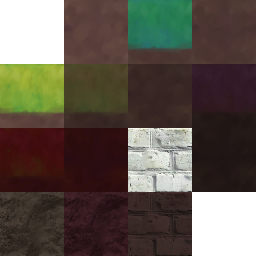
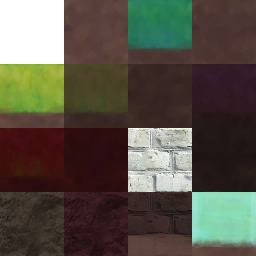
UVとマップの修正

Changed region(s): [[0.5, 0.75, 1.0, 1.0]]

diff --git a/Point-of-No-Return/Mapchip.h b/Point-of-No-Return/Mapchip.h
@@ -13,7 +13,7 @@ public:
 	static const int WORLD_HORIZONTAL_NUM = 480;
 
 	//! ワールドの縦のブロック数
-	static const int WORLD_VERTICAL_NUM = 17;
+	static const int WORLD_VERTICAL_NUM = 19;
 
 	//! 一つのチップのサイズ
 	static const int CHIP_SIZE = 64;
@@ -86,14 +86,41 @@ private:
 	// テクスチャの縦のブロック数
 	const int VERTICAL_NUM = TEXTURE_HEIGHT / CHIP_HEIGHT_NUM;
 
-	//! 描画する最小値
-	const float DRAW_MIN = -CHIP_SIZE;
+	//! 描画するXの最小値
+	const float DRAW_X_MIN = -CHIP_SIZE;
 
-	//! 描画する最大値
-	const float DRAW_MAX = Display::WIDTH + CHIP_SIZE;
+	//! 描画するYの最小値
+	const float DRAW_Y_MIN = -CHIP_SIZE;
+
+	//! 描画するXの最大値
+	const float DRAW_X_MAX = Display::WIDTH + CHIP_SIZE;
+
+	//! 描画するYの最大値
+	const float DRAW_Y_MAX = Display::HEIGHT + CHIP_SIZE;
 
 	//! マップの二重配列
-	int map[WORLD_VERTICAL_NUM][WORLD_HORIZONTAL_NUM] = {};
+	int map[WORLD_VERTICAL_NUM][WORLD_HORIZONTAL_NUM] = 
+	{
+		{0,0,0,0,0,0,0,0,0,0,0,0,0,0,0,0,0,0,0,0,0,0,0,0,0,0,0,0,0,0,0,0,0,0,0,0,0,0,0,0,0,0,0,0,0,0,0,0,0,0,0,0,0,0,0,0,0,0,0,0,0,0,0,0,0,0,0,0,0,0,0,0,0,0,0,0,0,0,0,0,0,0,0,0,0,0,0,0,0,0,0,0,0,0,0,0,0,0,0,0,0,0,0,0,0,0,0,0,0,0,0,0,0,0,0,0,0,0,0,0,0,0,0,0,0,0,0,0,0,0,0,0,0,0,0,0,0,0,0,0,0,0,0,0,0,0,0,0,0,0,0,0,0,0,0,0,0,0,0,0,0,0,0,0,0,0,0,0,0,0,0,0,0,0,0,0,0,0,0,0,0,0,0,0,0,0,0,0,0,0,0,0,0,0,0,0,0,0,0,0,0,0,0,0,0,0,0,0,0,0,0,0,0,0,0,0,0,0,0,0,0,0,0,0,0,0,0,0,0,0,0,0,0,0,0,0,0,0,0,0,0,14},
+		{0,0,0,0,0,0,0,0,0,0,0,0,0,0,0,0,0,0,0,0,0,0,0,0,0,0,0,0,0,0,0,0,0,0,0,0,0,0,0,0,0,0,0,0,0,0,0,0,0,0,0,0,0,0,0,0,0,0,0,0,0,0,0,0,0,0,0,0,0,0,0,0,0,0,0,0,0,0,0,0,0,0,0,0,0,0,0,0,0,0,0,0,0,0,0,0,0,0,0,0,0,0,0,0,0,0,0,0,0,0,0,0,0,0,0,0,0,0,0,0,0,0,0,0,0,0,0,0,0,0,0,0,0,0,0,0,0,0,0,0,0,0,0,0,0,0,0,0,0,0,0,0,0,0,0,0,0,0,0,0,0,0,0,0,0,0,0,0,0,0,0,0,0,0,0,0,0,0,0,0,0,0,0,0,0,0,0,0,0,0,0,0,0,0,0,0,0,0,0,0,0,0,0,0,0,0,0,0,0,0,0,0,0,0,0,0,0,0,0,0,0,0,0,0,0,0,0,0,0,0,0,0,0,0,0,0,0,0,0,0,0,14},
+		{0,0,0,0,0,0,0,0,0,0,0,0,0,0,0,0,0,0,0,0,0,0,0,0,0,0,0,0,0,0,0,0,0,0,0,0,0,0,0,0,0,0,0,0,0,0,0,0,0,0,0,0,0,0,0,0,0,0,0,0,0,0,0,0,0,0,0,0,0,0,0,0,0,0,0,0,0,0,0,0,0,0,0,0,0,0,0,0,0,0,0,0,0,0,0,0,0,0,0,0,0,0,0,0,0,0,0,0,0,0,0,0,0,0,0,0,0,0,0,0,0,0,0,0,0,0,0,0,0,0,0,0,0,0,0,0,0,0,0,0,0,0,0,0,0,0,0,0,0,0,0,0,0,0,0,0,0,0,0,0,0,0,0,0,0,0,0,0,0,0,0,0,0,0,0,0,0,0,0,0,0,0,0,0,0,0,0,0,0,0,0,0,0,0,0,0,0,0,0,0,0,0,0,0,0,0,0,0,0,0,0,0,0,0,0,0,0,0,0,0,0,0,0,0,0,0,0,0,0,0,0,0,0,0,0,0,0,0,0,0,0,14},
+		{0,0,0,0,0,0,0,0,0,0,0,0,0,0,0,0,0,0,0,0,0,0,0,0,0,0,0,0,0,0,0,0,0,0,0,0,0,0,0,0,0,0,0,0,0,0,0,4,4,4,4,0,0,0,0,0,0,0,0,0,0,0,0,0,0,0,0,0,0,0,0,0,0,0,0,0,0,0,0,0,0,0,0,0,0,0,0,0,0,0,0,0,0,0,0,0,0,0,0,0,0,0,0,0,0,0,0,0,0,0,0,0,0,0,0,0,0,0,0,0,0,0,0,0,0,0,0,0,0,0,0,0,0,0,0,0,0,0,0,0,0,0,0,0,0,0,0,0,0,0,0,0,0,0,0,0,0,0,0,0,0,0,0,0,0,0,0,0,0,0,0,0,0,0,0,0,0,0,0,0,0,0,0,0,0,0,0,0,0,0,0,0,0,0,0,0,0,0,0,0,0,0,0,0,0,0,0,0,0,0,0,0,0,0,0,0,0,0,0,0,0,0,0,0,0,0,0,0,0,0,0,0,0,0,0,0,0,0,0,0,0,14},
+		{0,0,0,0,0,0,0,0,0,0,0,0,0,0,0,0,0,0,0,0,0,0,0,0,0,0,0,0,0,0,0,0,0,0,0,0,0,0,0,0,0,0,0,0,0,0,4,1,1,1,1,4,0,0,0,0,0,0,0,0,0,0,0,0,0,0,0,0,0,0,0,0,0,0,0,0,0,0,0,0,0,0,0,0,0,0,0,0,0,0,0,0,0,0,0,0,0,0,0,0,0,0,0,0,0,0,0,0,0,0,0,0,0,0,0,0,0,0,0,0,0,0,0,0,0,0,0,0,0,0,0,0,0,0,0,0,0,0,0,0,0,0,0,0,0,0,0,0,0,0,0,0,0,0,0,0,0,0,0,0,0,0,0,0,0,0,0,0,0,0,0,0,0,0,0,0,0,0,0,0,0,0,0,0,0,0,0,0,0,0,0,0,0,0,0,0,0,0,0,0,0,0,0,0,0,0,0,0,0,0,0,0,0,0,0,0,0,0,0,0,0,0,0,0,0,0,0,0,0,0,0,0,0,0,0,0,0,0,0,0,0,14},
+		{0,0,0,0,0,0,0,0,0,0,0,0,0,0,0,0,0,0,0,0,0,0,0,0,0,0,4,4,0,0,0,0,0,0,0,0,0,0,0,0,0,0,0,0,0,0,0,0,0,0,0,0,0,0,0,0,0,0,0,0,0,0,0,0,0,0,0,0,0,0,0,0,0,0,0,0,0,0,0,0,0,0,0,0,0,0,0,0,0,0,0,0,0,0,0,0,0,0,0,0,0,0,0,0,0,0,0,0,0,0,0,0,0,0,0,0,0,0,0,0,0,0,0,0,0,0,0,0,0,0,0,0,0,0,0,0,0,0,0,0,0,0,0,0,0,0,0,0,0,0,0,0,0,0,0,0,0,0,0,0,0,0,0,0,0,0,0,0,0,0,0,0,0,0,0,0,0,0,0,0,0,0,0,0,0,0,0,0,0,0,0,0,0,0,0,0,0,0,0,0,0,0,0,0,0,0,0,0,0,0,0,0,0,0,0,0,0,0,0,0,0,0,0,0,0,0,0,0,0,0,0,0,0,0,0,0,0,0,0,0,0,14},
+		{0,0,0,0,0,0,0,0,0,0,0,0,0,0,0,0,0,0,0,4,4,4,0,0,0,0,1,1,0,0,0,0,0,0,0,0,0,0,0,0,0,0,0,0,0,0,0,0,0,0,0,0,0,0,0,0,0,0,0,0,0,0,0,0,0,0,0,0,0,0,0,0,0,0,0,0,0,0,0,0,0,0,0,0,0,0,0,0,0,0,0,0,0,0,0,0,0,0,0,0,0,0,0,0,0,0,0,0,0,0,0,0,0,0,0,0,0,0,0,0,0,0,0,0,0,0,0,0,0,0,0,0,0,0,0,0,0,0,0,0,0,0,0,0,0,0,0,0,0,0,0,0,0,0,0,0,0,0,0,0,0,0,0,0,0,0,0,0,0,0,0,0,0,0,0,0,0,0,0,0,0,0,0,0,0,0,0,0,0,0,0,0,0,0,0,0,0,0,0,0,0,0,0,0,0,0,0,0,0,0,0,0,0,0,0,0,0,0,0,0,0,0,0,0,0,0,0,0,0,0,0,0,0,0,0,0,0,0,0,0,0,14},
+		{0,0,0,0,0,0,0,0,0,0,0,0,0,0,0,0,0,0,4,1,1,1,4,0,0,0,0,0,0,0,0,0,0,0,0,0,0,0,0,0,0,0,0,0,0,0,0,0,0,0,0,0,0,0,0,0,0,0,0,0,0,0,0,0,0,0,0,0,0,0,0,0,0,0,0,0,0,0,0,0,0,0,0,0,0,0,0,0,0,0,0,0,0,0,0,0,0,0,0,0,0,0,0,0,0,0,0,0,0,0,0,0,0,0,0,0,0,0,0,0,0,0,0,0,0,0,0,0,0,0,0,0,0,0,0,0,0,0,0,0,0,0,0,0,0,0,0,0,0,0,0,0,0,0,0,0,0,0,0,0,0,0,0,0,0,0,0,0,0,0,0,0,0,0,0,0,0,0,0,0,0,0,0,0,0,0,0,0,0,0,0,0,0,0,0,0,0,0,0,0,0,0,0,0,0,0,0,0,0,0,0,0,0,0,0,0,0,0,0,0,0,0,0,0,0,0,0,0,0,0,0,0,0,0,0,0,0,0,0,0,0,14},
+		{0,0,0,0,0,0,0,0,0,0,0,0,0,0,0,0,0,0,0,0,0,0,0,0,0,0,0,0,0,0,0,0,4,4,4,0,0,0,0,0,0,0,0,0,0,0,0,0,0,0,0,0,0,0,0,0,0,0,0,0,0,0,0,0,0,0,0,0,0,0,0,0,0,0,0,0,0,0,0,0,0,0,0,0,0,0,0,0,0,0,0,0,0,0,0,0,0,0,0,0,0,0,0,0,0,0,0,0,0,0,0,0,0,0,0,0,0,0,0,0,0,0,0,0,0,0,0,0,0,0,0,0,0,0,0,0,0,0,0,0,0,0,0,0,0,0,0,0,0,0,0,0,0,0,0,0,0,0,0,0,0,0,0,0,0,0,0,0,0,0,0,0,0,0,0,0,0,0,0,0,0,0,0,0,0,0,0,0,0,0,0,0,0,0,0,0,0,0,0,0,0,0,0,0,0,0,0,0,0,0,0,0,0,0,0,0,0,0,0,0,0,0,0,0,0,0,0,0,0,0,0,0,0,0,0,0,0,0,0,0,0,14},
+		{0,0,0,0,0,0,0,0,0,0,0,0,0,0,0,0,0,0,0,0,0,0,0,0,0,0,0,0,0,0,0,0,1,1,1,0,0,0,0,0,0,0,0,0,0,0,0,0,0,0,0,0,0,0,0,0,0,0,0,0,0,0,0,0,0,0,0,0,0,0,0,0,0,0,0,0,0,0,0,0,0,0,0,0,0,0,0,0,0,0,0,0,0,0,0,0,0,0,0,0,0,0,0,0,0,0,0,0,0,0,0,0,0,0,0,0,0,0,0,0,0,0,0,0,0,0,0,0,0,0,0,0,0,0,0,0,0,0,0,0,0,0,0,0,0,0,0,0,0,0,0,0,0,0,0,0,0,0,0,0,0,0,0,0,0,0,0,0,0,0,0,0,0,0,0,0,0,0,0,0,0,0,0,0,0,0,0,0,0,0,0,0,0,0,0,0,0,0,0,0,0,0,0,0,0,0,0,0,0,0,0,0,0,0,0,0,0,0,0,0,0,0,0,0,0,0,0,0,0,0,0,0,0,0,0,0,0,0,0,0,0,14},
+		{0,0,0,0,0,0,0,0,0,0,0,0,0,0,0,0,0,0,0,0,0,0,0,0,0,0,0,0,0,0,0,0,1,1,1,0,0,0,0,0,4,4,4,4,4,4,0,0,0,0,0,0,0,0,0,0,0,0,0,0,0,0,0,0,0,0,0,0,0,0,0,0,0,0,0,0,0,0,0,0,0,0,0,0,0,0,0,0,0,0,0,0,0,0,0,0,0,0,0,0,0,0,0,0,0,0,0,0,0,0,0,0,0,0,0,0,0,0,0,0,0,0,0,0,0,0,0,0,0,0,0,0,0,0,0,0,0,0,0,0,0,0,0,0,0,0,0,0,0,0,0,0,0,0,0,0,0,0,0,0,0,0,0,0,0,0,0,0,0,0,0,0,0,0,0,0,0,0,0,0,0,0,0,0,0,0,0,0,0,0,0,0,0,0,0,0,0,0,0,0,0,0,0,0,0,0,0,0,0,0,0,0,0,0,0,0,0,0,0,0,0,0,0,0,0,0,0,0,0,0,0,0,0,0,0,0,0,0,0,0,0,14},
+		{0,0,0,0,0,0,0,0,0,0,0,0,0,0,0,0,0,0,0,0,0,0,0,0,0,0,0,0,0,0,4,4,1,1,1,0,0,0,0,0,0,0,0,0,0,1,0,0,0,0,0,0,0,0,0,0,0,0,0,0,0,0,0,0,0,0,0,5,5,0,0,0,0,0,0,0,0,0,0,0,0,0,0,0,0,0,0,0,0,0,0,0,0,0,0,0,0,0,0,0,0,0,0,0,0,0,0,0,0,0,0,0,5,5,0,0,0,0,0,0,0,0,0,0,0,0,0,0,0,0,0,0,0,0,0,0,0,0,0,0,0,0,0,0,0,0,0,0,0,0,0,0,0,0,0,0,0,0,0,0,0,0,0,0,0,0,0,0,0,0,0,0,0,0,0,0,0,0,0,0,0,0,0,0,0,0,0,0,0,0,0,0,0,0,0,0,0,0,0,0,0,0,0,0,0,0,0,0,0,0,0,0,0,0,0,0,0,0,0,0,0,0,0,0,0,0,0,0,0,0,0,0,0,0,0,0,0,0,0,0,0,14},
+		{0,0,0,0,0,0,0,0,0,0,0,0,0,0,0,0,0,0,0,0,0,0,0,0,0,0,0,0,0,0,1,1,1,1,1,0,0,0,0,0,0,0,0,0,0,1,0,0,0,4,4,4,0,0,0,0,0,0,0,0,0,0,0,0,0,0,0,6,6,0,0,0,0,0,0,0,0,5,5,5,0,0,0,0,5,5,5,5,5,5,0,0,0,0,0,0,0,0,0,0,0,0,0,0,0,0,0,0,0,0,0,0,6,6,5,5,0,0,0,0,0,0,0,0,0,0,0,0,0,0,0,0,0,0,0,0,0,0,0,0,0,0,0,0,0,0,0,0,0,0,0,0,0,0,0,0,0,0,0,0,0,0,0,0,0,0,0,0,0,0,0,0,0,0,0,0,0,0,0,0,0,0,0,0,0,0,0,0,0,0,0,0,0,0,0,0,0,0,0,0,0,0,0,0,0,0,0,0,0,0,0,0,0,0,0,0,0,0,0,0,0,0,0,0,0,0,0,0,0,0,0,0,0,0,0,0,0,0,0,0,0,14},
+		{4,4,4,4,0,0,0,4,4,4,4,0,0,4,4,4,4,0,0,0,0,0,0,0,0,0,4,4,4,4,1,1,1,1,1,0,0,0,0,0,0,0,0,0,0,1,0,0,0,1,1,1,4,4,4,4,4,5,5,5,5,5,5,5,0,0,0,6,6,0,0,0,0,0,0,0,0,6,6,6,0,0,0,0,6,6,6,6,6,6,0,0,0,0,0,0,5,5,0,0,0,0,0,0,0,0,0,0,5,5,0,0,6,6,6,6,5,5,0,0,5,5,5,5,5,5,5,5,5,5,5,5,5,5,5,5,5,5,5,5,5,5,5,5,5,5,5,5,5,5,5,5,5,5,5,5,5,5,5,5,5,5,5,5,5,5,5,5,5,5,5,5,5,5,5,5,5,5,5,5,5,5,5,5,5,5,5,5,5,5,5,5,5,5,5,5,5,5,5,5,5,5,5,5,5,5,5,5,5,5,5,5,5,5,5,5,5,5,5,5,5,5,5,5,5,5,5,5,5,5,5,5,5,5,5,5,5,5,5,5,5,14},
+		{1,1,1,1,4,4,4,1,1,1,1,0,0,1,1,1,1,4,4,4,4,4,4,4,4,4,1,1,1,1,1,1,1,1,1,4,4,4,4,4,4,4,4,4,4,1,4,4,4,1,1,1,1,1,1,1,1,6,6,6,6,6,6,6,5,5,5,6,6,5,5,5,5,5,5,5,5,6,6,6,5,5,5,5,6,6,6,6,6,6,5,5,5,5,0,0,6,6,5,5,5,5,5,5,5,5,5,5,6,6,5,5,6,6,6,6,6,6,5,5,6,6,6,6,6,6,6,6,6,6,6,6,6,6,6,6,6,6,6,6,6,6,6,6,6,6,6,6,6,6,6,6,6,6,6,6,6,6,6,6,6,6,6,6,6,6,6,6,6,6,6,6,6,6,6,6,6,6,6,6,6,6,6,6,6,6,6,6,6,6,6,6,6,6,6,6,6,6,6,6,6,6,6,6,6,6,6,6,6,6,6,6,6,6,6,6,6,6,6,6,6,6,6,6,6,6,6,6,6,6,6,6,6,6,6,6,6,6,6,6,6,14},
+		{1,1,1,1,1,1,1,1,1,1,1,1,1,1,1,1,1,1,1,1,1,1,1,1,1,1,1,1,1,1,1,1,1,1,1,1,1,1,1,1,1,1,1,1,1,1,1,1,1,1,1,1,1,1,1,1,1,6,6,6,6,6,6,6,6,6,6,6,6,6,6,6,6,6,6,6,6,6,6,6,6,6,6,6,6,6,6,6,6,6,6,6,6,6,6,6,6,6,6,6,6,6,6,6,6,6,6,6,6,6,6,6,6,6,6,6,6,6,6,6,6,6,6,6,6,6,6,6,6,6,6,6,6,6,6,6,6,6,6,6,6,6,6,6,6,6,6,6,6,6,6,6,6,6,6,6,6,6,6,6,6,6,6,6,6,6,6,6,6,6,6,6,6,6,6,6,6,6,6,6,6,6,6,6,6,6,6,6,6,6,6,6,6,6,6,6,6,6,6,6,6,6,6,6,6,6,6,6,6,6,6,6,6,6,6,6,6,6,6,6,6,6,6,6,6,6,6,6,6,6,6,6,6,6,6,6,6,6,6,6,6,14},
+		{1,1,1,1,1,1,1,1,1,1,1,1,1,1,1,1,1,1,1,1,1,1,1,1,1,1,1,1,1,1,1,1,1,1,1,1,1,1,1,1,1,1,1,1,1,1,1,1,1,1,1,1,1,1,1,1,1,6,6,6,6,6,6,6,6,6,6,6,6,6,6,6,6,6,6,6,6,6,6,6,6,6,6,6,6,6,6,6,6,6,6,6,6,6,6,6,6,6,6,6,6,6,6,6,6,6,6,6,6,6,6,6,6,6,6,6,6,6,6,6,6,6,6,6,6,6,6,6,6,6,6,6,6,6,6,6,6,6,6,6,6,6,6,6,6,6,6,6,6,6,6,6,6,6,6,6,6,6,6,6,6,6,6,6,6,6,6,6,6,6,6,6,6,6,6,6,6,6,6,6,6,6,6,6,6,6,6,6,6,6,6,6,6,6,6,6,6,6,6,6,6,6,6,6,6,6,6,6,6,6,6,6,6,6,6,6,6,6,6,6,6,6,6,6,6,6,6,6,6,6,6,6,6,6,6,6,6,6,6,6,6,14},
+		{1,1,1,1,1,1,1,1,1,1,1,1,1,1,1,1,1,1,1,1,1,1,1,1,1,1,1,1,1,1,1,1,1,1,1,1,1,1,1,1,1,1,1,1,1,1,1,1,1,1,1,1,1,1,1,1,1,6,6,6,6,6,6,6,6,6,6,6,6,6,6,6,6,6,6,6,6,6,6,6,6,6,6,6,6,6,6,6,6,6,6,6,6,6,6,6,6,6,6,6,6,6,6,6,6,6,6,6,6,6,6,6,6,6,6,6,6,6,6,6,6,6,6,6,6,6,6,6,6,6,6,6,6,6,6,6,6,6,6,6,6,6,6,6,6,6,6,6,6,6,6,6,6,6,6,6,6,6,6,6,6,6,6,6,6,6,6,6,6,6,6,6,6,6,6,6,6,6,6,6,6,6,6,6,6,6,6,6,6,6,6,6,6,6,6,6,6,6,6,6,6,6,6,6,6,6,6,6,6,6,6,6,6,6,6,6,6,6,6,6,6,6,6,6,6,6,6,6,6,6,6,6,6,6,6,6,6,6,6,6,6,14},
+		{1,1,1,1,1,1,1,1,1,1,1,1,1,1,1,1,1,1,1,1,1,1,1,1,1,1,1,1,1,1,1,1,1,1,1,1,1,1,1,1,1,1,1,1,1,1,1,1,1,1,1,1,1,1,1,1,1,6,6,6,6,6,6,6,6,6,6,6,6,6,6,6,6,6,6,6,6,6,6,6,6,6,6,6,6,6,6,6,6,6,6,6,6,6,6,6,6,6,6,6,6,6,6,6,6,6,6,6,6,6,6,6,6,6,6,6,6,6,6,6,6,6,6,6,6,6,6,6,6,6,6,6,6,6,6,6,6,6,6,6,6,6,6,6,6,6,6,6,6,6,6,6,6,6,6,6,6,6,6,6,6,6,6,6,6,6,6,6,6,6,6,6,6,6,6,6,6,6,6,6,6,6,6,6,6,6,6,6,6,6,6,6,6,6,6,6,6,6,6,6,6,6,6,6,6,6,6,6,6,6,6,6,6,6,6,6,6,6,6,6,6,6,6,6,6,6,6,6,6,6,6,6,6,6,6,6,6,6,6,6,6,14},
+	};
 
 };
 

diff --git a/Point-of-No-Return/Hero.cpp b/Point-of-No-Return/Hero.cpp
@@ -13,6 +13,8 @@ namespace
 	const float MIN_OFFSET_X = 0.f;
 	//! offsetの最大値
 	const float MAX_OFFSET_X = (Mapchip::WORLD_HORIZONTAL_NUM - DISPLAY_HORIZONTAL_NUM) * Mapchip::CHIP_SIZE;
+	//! 
+	int tu_framcount = 0;
 }
 
 void Hero::Initialize()
@@ -63,16 +65,18 @@ void Hero::Update()
 		if (position.x <= CoordinateX(DISPLAY_CENTER_X) ||
 			(CoordinateX(DISPLAY_CENTER_X) < position.x && offset.x == CoordinateX(MAX_OFFSET_X)) && position.x + size.width < Display::WIDTH)
 		{
-			position.x += CoordinateX(3.f);
+			position.x += CoordinateX(2.f);
 		}
 		else
 		{
-			offset.x += CoordinateX(3.f);
+			offset.x += CoordinateX(2.f);
+
+			if (CoordinateX(MAX_OFFSET_X) < offset.x)
+			{
+				offset.x = CoordinateX(MAX_OFFSET_X);
+			}
 		}
-		if (CoordinateX(MAX_OFFSET_X) < offset.x)
-		{
-			offset.x = CoordinateX(MAX_OFFSET_X);
-		}
+	
 	}
 
 	if (dx.GetKeyState(DIK_A) == dx.ON)
@@ -81,16 +85,16 @@ void Hero::Update()
 		if (position.x + size.width >= DISPLAY_CENTER_X ||
 			(position.x + size.width < DISPLAY_CENTER_X && offset.x == CoordinateX(MIN_OFFSET_X)) && CoordinateX(MIN_OFFSET_X) < position.x)
 		{
-			position.x -= CoordinateX(3.f);
+			position.x -= CoordinateX(2.f);
 		}
 		else
 		{
-			offset.x -= CoordinateX(3.f);
-		}
+			offset.x -= CoordinateX(2.f);
 
-		if (offset.x < CoordinateX(0.f))
-		{
-			offset.x = CoordinateX(0.f);
+			if (offset.x < CoordinateX(0.f))
+			{
+				offset.x = CoordinateX(0.f);
+			}
 		}
 	}
 
@@ -99,8 +103,6 @@ void Hero::Update()
 		gravity.Jump();
 	}
 	gravity.Apply();
-
-	ReverseMotion();
 
 	Motion();
 
@@ -135,59 +137,78 @@ void Hero::Motion()
 {
 	Vec2 vecter = GetVector();
 
+	//動いてない
 	if (vecter.x == 0)
 	{
 		uv.tu.value = 0.f;
-	}
-	else
+	}else // 右
+	if (vecter.x < 0)
 	{
-		AddTime();
+		ChangeTu();
+		float tv = 0.f / 1024.f;
+		uv.tv.value = tv;
 
-		float tu;
+	}else // 左
+	if (vecter.x > 0)
+	{
+		ChangeTu();
+		float tv = 322.f / 1024.f;
+		uv.tv.value = tv;
+	}
 
-		switch (time.value)
-		{
-		case 8:
+	
+	
+}
 
-			tu = (190.f * 2.f) / 2048.f;
-			uv.tu.value = tu;
 
-			break;
-		case 16:
+void Hero::ChangeTu()
+{
+	float tu;
+	tu_framcount++;
+	switch (tu_framcount)
+	{
+	case 0:
 
-			tu = (190.f * 3.f) / 2048.f;
-			uv.tu.value = tu;
+		tu = (190.f * 1.f + 1.f) / 2048.f;
+		uv.tu.value = tu;
 
-			break;
-		case 24:
+		break;
+	case 10:
 
-			tu = (190.f * 4.f) / 2048.f;
-			uv.tu.value = tu;
+		tu = (190.f * 2.f + 1.f) / 2048.f;
+		uv.tu.value = tu;
 
-			break;
-		case 32:
+		break;
+	case 20:
 
-			tu = (190.f * 5.f) / 2048.f;
-			uv.tu.value = tu;
+		tu = (190.f * 3.f + 1.f) / 2048.f;
+		uv.tu.value = tu;
 
-			break;
-		case 40:
+		break;
+	case 30:
 
-			tu = (190.f * 6.f) / 2048.f;
-			uv.tu.value = tu;
+		tu = (190.f * 4.f + 1.f) / 2048.f;
+		uv.tu.value = tu;
 
-			break;
-		default:
+		break;
+	case 40:
 
-			if (time.value > 40)
-			{
-				time.value = 0;
-				tu = 0;
-				uv.tu.value = tu;
-			}
+		tu = (190.f * 5.f + 1.f) / 2048.f;
+		uv.tu.value = tu;
 
-			break;
-		}
+		break;
+	case 50:
 
+		tu = (190.f * 6.f + 1.f) / 2048.f;
+		uv.tu.value = tu;
+
+		break;
+	default:
+
+		break;
+	}
+	if (tu_framcount >= 60)
+	{
+		tu_framcount = 0;
 	}
 }

diff --git a/Point-of-No-Return/Mapchip.cpp b/Point-of-No-Return/Mapchip.cpp
@@ -18,7 +18,7 @@ void Mapchip::DrawMapchip(float draw_start_pos_x, float draw_start_pos_y, std::s
 			float draw_pos_x = draw_start_pos_x + CHIP_SIZE * j;
 			float draw_pos_y = draw_start_pos_y + CHIP_SIZE * i;
 
-			if (draw_pos_x < DRAW_MIN || DRAW_MAX < draw_pos_x)
+			if (draw_pos_x < DRAW_X_MIN || DRAW_X_MAX < draw_pos_x || draw_pos_y < DRAW_Y_MIN || DRAW_Y_MAX < draw_pos_y)
 			{
 				continue;
 			}
@@ -46,17 +46,17 @@ void Mapchip::TexturePrint(float drawpos_x, float drawpos_y, float tu, float tv,
 
 void Mapchip::InitMap()
 {
-	//α用のマップ
-	for (int i = 0; i < WORLD_VERTICAL_NUM; i++)
-	{
-		for (int j = 0; j < WORLD_HORIZONTAL_NUM; j++)
-		{
-			if (i == 14 || i == 15)
-			{
-				map[i][j] = 1;
-			}
-		}
-	}
+	////α用のマップ
+	//for (int i = 0; i < WORLD_VERTICAL_NUM; i++)
+	//{
+	//	for (int j = 0; j < WORLD_HORIZONTAL_NUM; j++)
+	//	{
+	//		if (i == 14 || i == 15)
+	//		{
+	//			map[i][j] = 1;
+	//		}
+	//	}
+	//}
 	
 	for (int i = 0; i < WORLD_VERTICAL_NUM; i++)
 	{

diff --git a/Point-of-No-Return/Game.cpp b/Point-of-No-Return/Game.cpp
@@ -37,27 +37,6 @@ void Game::Draw()
 
 	hero.Draw();
 
-	// ----------- 当たり判定の為の仮置き --------------
-	// TODO : 検証後削除
-	mapchip.map_[11][10] = 1;
-	mapchip.map_[11][11] = 1;
-	mapchip.map_[10][10] = 1;
-	mapchip.map_[10][11] = 1;
-
-	mapchip.map_[3][13] = 1;
-	mapchip.map_[4][12] = 1;
-	mapchip.map_[5][11] = 1;
-
-	mapchip.map_[0][50] = 1;
-	mapchip.map_[1][50] = 1;
-	mapchip.map_[2][50] = 1;
-	mapchip.map_[3][50] = 1;
-	mapchip.map_[4][50] = 1;
-	mapchip.map_[5][50] = 1;
-	mapchip.map_[6][50] = 1;
-
-	// ---------------------------
-
 }
 
 void Game::Release()

diff --git a/Point-of-No-Return/Hero.h b/Point-of-No-Return/Hero.h
@@ -32,32 +32,9 @@ public:
 	 */
 	virtual void CorrectCoordinate(Direction direction, const Position& blockPosition) override;
 
-	inline void AddTime()
-	{
-		time.value += 1;
-	}
-
 	void Motion();
 
-	inline void ReverseMotion()
-	{
-		Vec2 vecter = GetVector();
-
-		// 右
-		if (vecter.x < 0)
-		{
-			float tv = 0.f / 1024.f;
-			uv.tv.value = tv;
-
-		}
-
-		//左
-		if (vecter.x > 0)
-		{
-			float tv = 322.f / 1024.f;
-			uv.tv.value = tv;
-		}
-	}
+	void ChangeTu();
 
 private:
 

diff --git a/Point-of-No-Return/Load.cpp b/Point-of-No-Return/Load.cpp
@@ -24,7 +24,7 @@ DWORD WINAPI GameThread(HWND hWnd, LPVOID* data)
 	dx.LoadTexture("仮Game_Back.jpg","game_back");
 	dx.LoadTexture("character_motion.png", "Player");
 	dx.LoadTexture("backillustration.png","game_back");
-	dx.LoadTexture("unified_block.png", "blocks");
+	dx.LoadTexture("足場ブロック整理後.png", "blocks");
 	ExitThread(0);
 }
 
